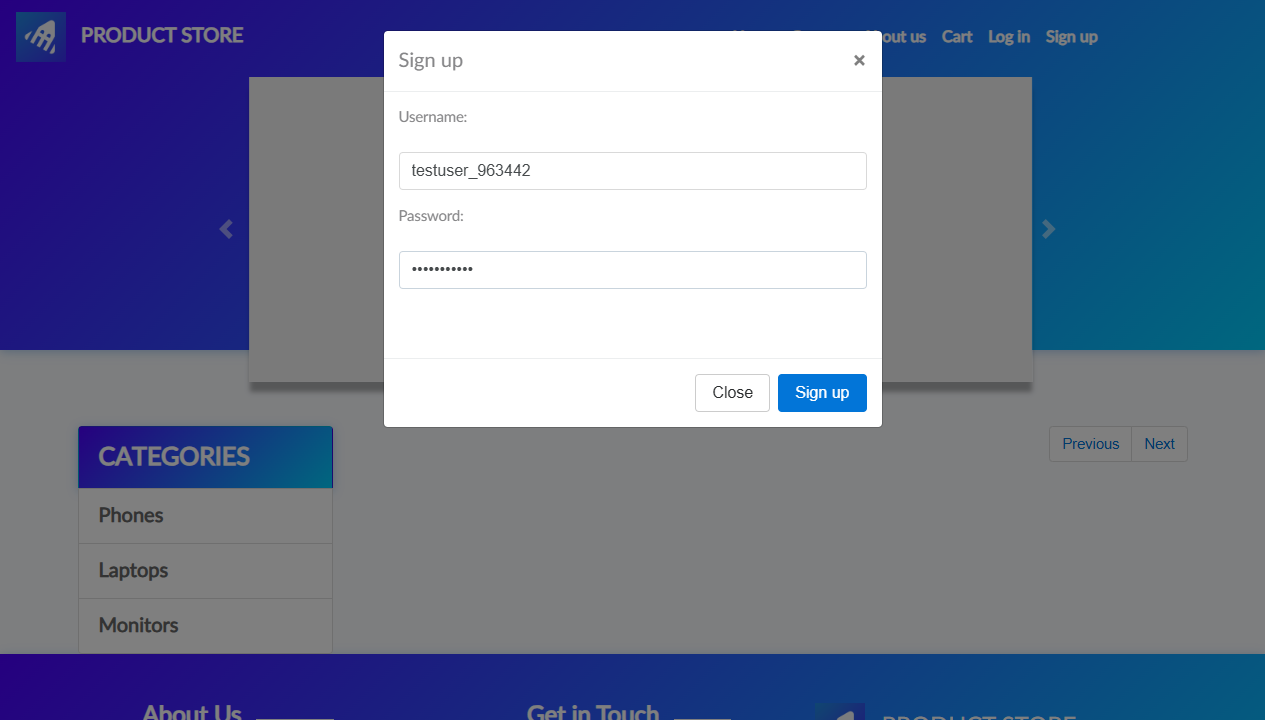
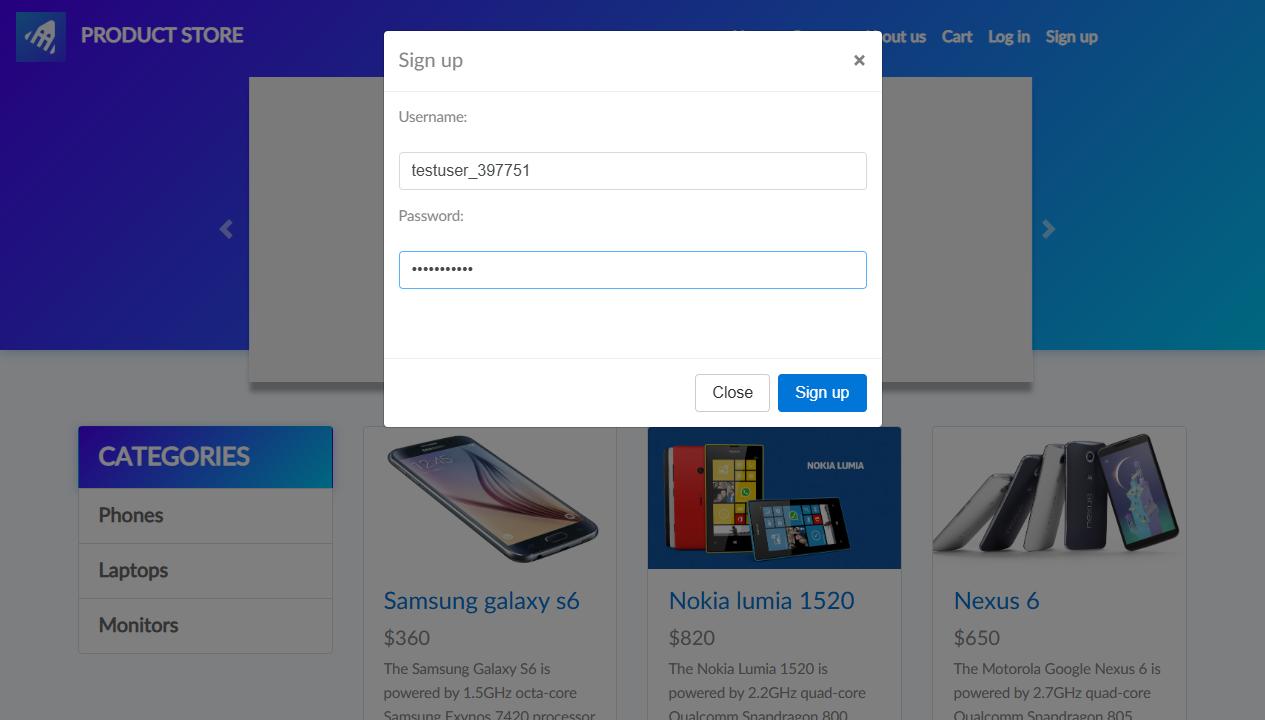
test Reto 3 para Clase 06

Changed region(s): [[0.0, 0.825, 1.0, 1.0], [0.3083, 0.5806, 0.9557, 0.7944], [0.37, 0.2139, 0.4316, 0.2444]]

diff --git a/tests/clase06.spec.ts b/tests/clase06.spec.ts
@@ -1,0 +1,124 @@
+import { test, expect } from '@playwright/test';
+import { LoginPage } from '../pages/LoginPage';
+import { InventoryPage } from '../pages/InventoryPage';
+import { CartPage } from '../pages/CartPage';
+import { CheckoutPage } from '../pages/CheckoutPage';
+import {MenuPage} from '../pages/MenuPage';
+
+test.describe('Clase 06 - Page Object Model en Sauce Demo', () => {
+    test('Login exitoso con POM', async ({ page }) => {
+const loginPage = new LoginPage(page);
+await loginPage.navigate();
+await loginPage.login('standard_user', 'secret_sauce');
+const inventoryPage = new InventoryPage(page);
+await inventoryPage.expectToBeOnInventoryPage();
+console.log('Login con POM exitoso');
+});
+
+test('Login fallido con POM', async ({ page }) => {
+const loginPage = new LoginPage(page);
+await loginPage.navigate();
+await loginPage.login('wrong_user', 'wrong_pass');
+await loginPage.expectLoginError(
+'Username and password do not match');
+console.log('Error de login capturado con POM');
+});
+
+test('Flujo completo: login → agregar 2 productos → verificar carrito', async ({ page }) => {
+const loginPage = new LoginPage(page);
+const inventoryPage = new InventoryPage(page);
+const cartPage = new CartPage(page);
+// Login
+await loginPage.navigate();
+await loginPage.login('standard_user', 'secret_sauce');
+await inventoryPage.expectToBeOnInventoryPage();
+// Agregar productos por nombre
+await inventoryPage.addProductByName('Sauce Labs Backpack');
+await inventoryPage.addProductByName('Sauce Labs Bike Light');
+// continúa en la siguiente diapositiva...
+
+// Verificar badge del carrito
+await expect(inventoryPage.cartBadge).toHaveText('2');
+// Ir al carrito
+await inventoryPage.goToCart();
+await cartPage.expectItemCount(2);
+console.log('Flujo completo con POM: 2 productos en carrito');
+});
+
+test('Verificar que el inventario tiene 6 productos',
+async ({ page }) => {
+const loginPage = new LoginPage(page);
+const inventoryPage = new InventoryPage(page);
+await loginPage.navigate();
+await loginPage.login('standard_user', 'secret_sauce');
+const count = await inventoryPage.getProductCount();
+expect(count).toBe(6);
+});
+
+test('Ordenar productos de mayor a menor precio',
+async ({ page }) => {
+const loginPage = new LoginPage(page);
+const inventoryPage = new InventoryPage(page);
+await loginPage.navigate();
+await loginPage.login('standard_user', 'secret_sauce');
+// Ordenar de mayor a menor precio
+await inventoryPage.sortBy('hilo');
+// continúa en la siguiente diapositiva...
+
+const precios = page.locator('.inventory_item_price');
+const primerPrecio = await precios.first().textContent();
+// Los precios deben estar en orden descendente
+const todosLosPrecios = await precios.allTextContents();
+const numericos = todosLosPrecios.map(
+p => parseFloat(p.replace('$', '')));
+for (let i = 0; i < numericos.length - 1; i++) {
+expect(numericos[i]).toBeGreaterThanOrEqual(numericos[i + 1]);
+}
+});
+});
+
+test('Reto 1 - Completar compra con CheckoutPage', async ({ page }) => {
+  const loginPage = new LoginPage(page);
+  const inventoryPage = new InventoryPage(page);
+  const cartPage = new CartPage(page);
+  const checkoutPage = new CheckoutPage(page);
+
+  await loginPage.navigate();
+  await loginPage.login('standard_user', 'secret_sauce');
+  await inventoryPage.addProductByName('Sauce Labs Backpack');
+  await inventoryPage.goToCart();
+  await cartPage.expectItemCount(1);
+
+  await page.getByRole('button', { name: 'Checkout' }).click();
+  await checkoutPage.fillForm('Dayanna', 'Lopez', '12345');
+  await checkoutPage.finishPurchase();
+});
+
+test('Reto 2 - Logout con MenuPage', async ({ page }) => {
+  const loginPage = new LoginPage(page);
+  const menuPage = new MenuPage(page);
+
+  await loginPage.navigate();
+  await loginPage.login('standard_user', 'secret_sauce');
+  await menuPage.openMenu();
+  await menuPage.logout();
+});
+
+test('Reto 3 - Quitar producto y badge desaparece', async ({ page }) => {
+  const loginPage = new LoginPage(page);
+  const inventoryPage = new InventoryPage(page);
+
+  // Login
+  await loginPage.navigate();
+  await loginPage.login('standard_user', 'secret_sauce');
+
+  // Agregar producto
+  await inventoryPage.addProductByName('Sauce Labs Backpack');
+  await expect(inventoryPage.cartBadge).toHaveText('1');
+
+  // Quitar producto
+  await inventoryPage.removeProductByName('Sauce Labs Backpack');
+
+  // Validar que el badge ya no está visible
+  await expect(inventoryPage.cartBadge).not.toBeVisible();
+});

diff --git a/pages/InventoryPage.ts b/pages/InventoryPage.ts
@@ -1,0 +1,49 @@
+import { Page, Locator, expect } from '@playwright/test';
+
+export class InventoryPage {
+ readonly page: Page;
+ readonly inventoryContainer: Locator;
+ readonly inventoryItems: Locator;
+ readonly cartBadge: Locator;
+ readonly cartLink: Locator;
+ readonly sortDropdown: Locator;
+constructor(page: Page) {
+ this.page = page;
+this.inventoryContainer = page.locator('.inventory_container');
+
+this.inventoryItems = page.locator('.inventory_item');
+this.cartBadge = page.locator('.shopping_cart_badge');
+this.cartLink = page.locator('.shopping_cart_link');
+this.sortDropdown = page.locator('[data-test="product-sort-container"]');
+}
+async expectToBeOnInventoryPage() {
+await expect(this.page).toHaveURL(/inventory/);
+await expect(this.inventoryContainer).toBeVisible();
+}
+async getProductCount(): Promise<number> {
+return await this.inventoryItems.count();
+}
+async addFirstProductToCart() {
+const addButton = this.inventoryItems.first()
+.locator('.btn_inventory');
+await addButton.click();
+}
+async addProductByName(productName: string) {
+const product = this.page.locator('.inventory_item',
+{ hasText: productName });
+await product.locator('.btn_inventory').click();
+}
+
+async goToCart() {
+await this.cartLink.click();
+await expect(this.page).toHaveURL(/cart/);
+}
+async sortBy(option: 'az' | 'za' | 'lohi' | 'hilo') {
+await this.sortDropdown.selectOption(option);
+}
+
+
+async removeProductByName(name: string) {
+  await this.page.getByText(name).locator('..').getByRole('button', { name: 'Remove' }).click();
+}
+}

diff --git a/pages/LoginPage.ts b/pages/LoginPage.ts
@@ -1,0 +1,32 @@
+import { Page, Locator, expect } from '@playwright/test';
+ export class LoginPage { 
+    readonly page: Page; 
+
+    // Locators como propiedades de la clase 
+    readonly usernameInput: Locator; 
+    readonly passwordInput: Locator; readonly loginButton: Locator; 
+    readonly errorMessage: Locator; 
+    constructor(page: Page) {
+         this.page = page;
+         this.usernameInput = page.locator('#user-name'); 
+         this.passwordInput = page.locator('#password'); 
+         this.loginButton = page.locator('#login-button'); 
+         this.errorMessage = page.locator('[data-test="error"]'); 
+        } 
+        // Métodos como acciones de alto nivel 
+        async navigate() { await this.page.goto('https://www.saucedemo.com'); 
+
+        } 
+        async login(username: string, password: string) { 
+           await this.usernameInput.fill(username); 
+           await this.passwordInput.fill(password); 
+           await this.loginButton.click(); 
+        } 
+    async getErrorMessage(): Promise<string> { 
+        return (await this.errorMessage.textContent()) ?? ''; 
+    } 
+    async expectLoginError(expectedText: string) { 
+        await expect(this.errorMessage).toBeVisible(); 
+        await expect(this.errorMessage).toContainText(expectedText); 
+    } 
+}

diff --git a/pages/CartPage.ts b/pages/CartPage.ts
@@ -1,0 +1,26 @@
+import { Page, Locator, expect } from '@playwright/test';
+
+export class CartPage {
+ readonly page: Page;
+ readonly cartItems: Locator;
+ readonly checkoutButton: Locator;
+ readonly continueShoppingButton: Locator;
+
+  constructor(page: Page) {
+ this.page = page;
+ this.cartItems = page.locator('.cart_item');
+ this.checkoutButton = page.locator('[data-test="checkout"]');
+ this.continueShoppingButton =
+ page.locator('[data-test="continue-shopping"]');
+}
+async getItemCount(): Promise<number> {
+return await this.cartItems.count();
+}
+async expectItemCount(count: number) {
+await expect(this.cartItems).toHaveCount(count);
+}
+async proceedToCheckout() {
+await this.checkoutButton.click();
+await expect(this.page).toHaveURL(/checkout-step-one/);
+}
+}

diff --git a/pages/CheckoutPage.ts b/pages/CheckoutPage.ts
@@ -1,0 +1,17 @@
+import { Page, expect } from '@playwright/test';
+
+export class CheckoutPage {
+  constructor(private page: Page) {}
+
+  async fillForm(firstName: string, lastName: string, postalCode: string) {
+    await this.page.locator('#first-name').fill(firstName);
+    await this.page.locator('#last-name').fill(lastName);
+    await this.page.locator('#postal-code').fill(postalCode);
+  }
+
+  async finishPurchase() {
+    await this.page.getByRole('button', { name: 'Continue' }).click();
+    await this.page.getByRole('button', { name: 'Finish' }).click();
+    await expect(this.page.locator('.complete-header')).toHaveText('Thank you for your order!');
+  }
+}

diff --git a/pages/MenuPage.ts b/pages/MenuPage.ts
@@ -1,0 +1,14 @@
+import { Page, expect } from '@playwright/test';
+
+export class MenuPage {
+  constructor(private page: Page) {}
+
+  async openMenu() {
+    await this.page.locator('#react-burger-menu-btn').click();
+  }
+
+  async logout() {
+    await this.page.locator('#logout_sidebar_link').click();
+    await expect(this.page.locator('#login-button')).toBeVisible();
+  }
+}

diff --git a/tests/clase01.spec.ts b/tests/clase01.spec.ts
@@ -2,7 +2,7 @@ import { test, expect } from '@playwright/test';
  
 test('La página carga', async ({ page }) => {
   await page.goto('/');
-  await expect(page).toHaveTitle(/TIENDA/);
+  await expect(page).toHaveTitle(/STORE/);
   await expect(page.locator('#navbarExample')).toBeVisible();
 });
  

diff --git a/README.md b/README.md
@@ -139,3 +139,26 @@ Ejecuta los tests:
 - casos-de-prueba/tabla-de-decision-checkout.md → documento con mínimo 4 condiciones y 6 reglas.
 - README.md → instrucciones de instalación y ejecución.
 
+# QA Playwright Curso · Clase 06
+
+Este proyecto contiene los tests automatizados de la **Clase 06 - Page Object Model (POM) en Sauce Demo**.  
+Incluye los 5 tests base vistos en clase y los 3 tests reto adicionales.
+
+---
+
+## Instalación
+
+1. Clona el repositorio:
+   ```bash
+   git clone https://github.com/dayagt/qa-playwright-curso.git
+   cd qa-playwright-curso
+
+   npm install
+Ejecución de los tests
+Para correr todos los tests de la Clase 06:
+   npx playwright test tests/clase06.spec.ts
+
+Si deseas ejecutar un test específico:
+   npx playwright test -g "Reto 3 - Quitar producto y badge desaparece"
+Para abrir el reporte en navegador:
+npx playwright show-report
